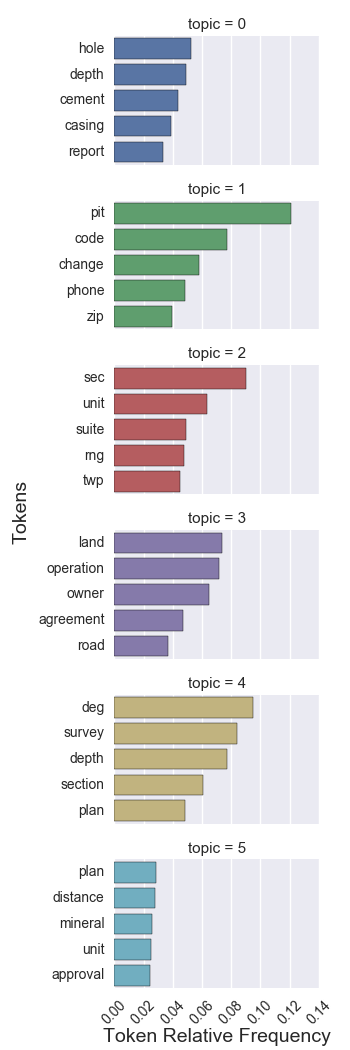
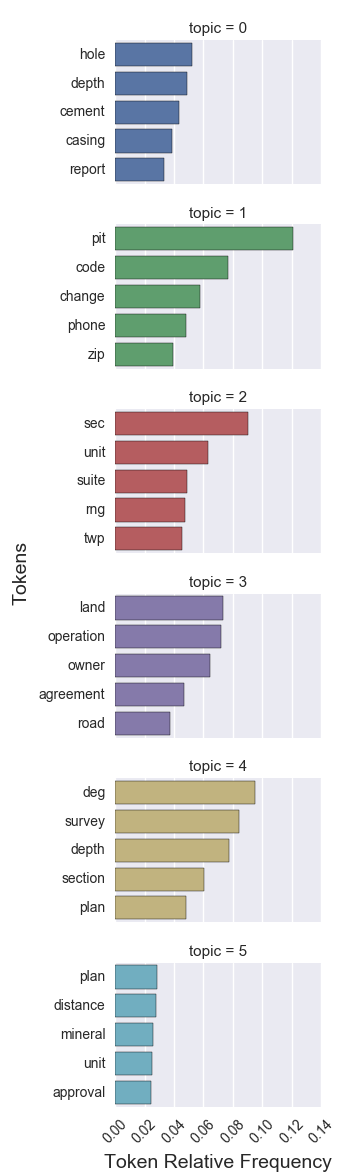
added plotting functions to doc_classification.py

diff --git a/src/doc_classification.py b/src/doc_classification.py
@@ -190,20 +190,42 @@ def topic_token_dist(model, dictionary, num_words=10):
 
 
 def plot_topic_token_dist(model, dictionary):
-    df_50 = topic_token_dist(model, dictionary, num_words=50)
-    p = sns.swarmplot(data=df_50, x='topic', y='token_prob', size=6)
-    p.set(ylabel='', xlabel='')
-    plt.text(-1.3, 0.06, 'Token Relative Frequency', va='center', rotation='vertical', size=14)
-    plt.text(2.5, -0.037, 'Topic', ha='center', size=14)
-
-    df_10 = topic_token_dist(model, dictionary, num_words=5)
-    grid = sns.FacetGrid(data=df_10, row='topic', hue='topic', sharey=False, size=1.75, aspect=2)
+    '''
+    INPUT: trained model, dictionary
+    OUTPUT: None
+    TASK: creates 3 plots - (1) topic vs. toekn relative freq, (2) topic vs. token variance per topic, (3) token relative freq vs. tokens by topic
+    '''
+    df_5 = topic_token_dist(model, dictionary, num_words=5)
+    grid = sns.FacetGrid(data=df_5, row='topic', hue='topic', sharey=False, size=1.75, aspect=2)
     grid.map(sns.barplot, 'token_prob', 'token')
     grid.set(ylabel='', xlabel='')
     plt.text(-0.07, -14, 'Tokens', va='center', rotation='vertical', size=14)
     plt.text(0.07, 6.6, 'Token Relative Frequency', ha='center', size=14)
     plt.xticks(rotation=45)
 
+    df_10 = topic_token_dist(model, dictionary, num_words=10)
+    fig2 = plt.figure()
+    fig2 = sns.boxplot(data=df_10, y='topic', x='token_id', orient='h')
+    fig2.axes.set_title('Distribution of Token ID per Topic',fontsize=16)
+    fig2.set_xlabel('Token ID',fontsize=14)
+    fig2.set_ylabel('Topic',fontsize=14)
+
+    df_50 = topic_token_dist(model, dictionary, num_words=50)
+    fig3 = plt.figure()
+    fig3 = sns.swarmplot(data=df_50, x='topic', y='token_prob', size=6)
+    fig3.set(ylabel='', xlabel='')
+    fig3.text(-1.3, 0.06, 'Token Relative Frequency', va='center', rotation='vertical', size=14)
+    fig3.text(2.5, -0.037, 'Topic', ha='center', size=14)
+
+    df_all = topic_token_dist(model, dictionary, num_words=len(dictionary.values()))
+    x, y = [], []
+    for t in range(model.num_topics):
+        x.append(t)
+        y.append(np.var(df_all[df_all['topic'] == t]['token_prob']))
+    fig4 = plt.figure()
+    fig4 = sns.barplot(x, y)
+    fig4.text(-1.3, 0.00015, 'Token Variance per Topic', va='center', rotation='vertical', size=14)
+    fig4.text(2.5, -0.000025, 'Topic', ha='center', size=14)
 
 
 def docs_topic_mask(model, top_topics_dict):
@@ -362,112 +384,116 @@ def plot_pca(pca):
 
 
 
-    # # ******
-    # # calculate token variance inside topics using all tokens in dictionary
-    # df = topic_token_dist(model=lda, dictionary=dictionary, num_words=len(dictionary.values()))
-    # x, y = [], []
-    # for t in range(lda.num_topics):
-    #     x.append(t)
-    #     y.append(np.var(df[df['topic'] == t]['token_prob']))
-    #
-    # # calculate mean token_id per topic to identify mean of known topic labels, such as permits
-    # token_dist_df = topic_token_dist(model=lda, dictionary=dictionary, num_words=10)
-    # m = []
-    # for t in range(lda.num_topics):
-    #     m.append(np.mean(token_dist_df[token_dist_df['topic'] == t]['token_id']))
-    #
-    # df_top_var = pd.DataFrame({'topic': x, 'token_prob_var': y, 'top10_token_id_mean': m})
-    #
-    # # use token_prob_var < 0.00015 to find most consistent topics in terms of document content. Use topic visual inspection to connect  top10_token_id_mean with topic label.
-    # df_top_var['topic_label'] = ''
-    # df_top_var.loc[0, 'topic_label'] = 'completions'
-    # df_top_var.loc[5, 'topic_label'] = 'permits'
-    #
-    # p = sns.barplot(x, y)
-    # plt.text(-1.3, 0.00015, 'Token Probability Variance', va='center', rotation='vertical', size=14)
-    # plt.text(2.5, -0.000025, 'Topic', ha='center', size=14)
-    #
-    #
-    # # topic_id distribution per topic
-    # b = sns.boxplot(data=token_dist_df, y='topic', x='token_id', orient='h')
-    # b.axes.set_title('Distribution of Token ID per Topic',fontsize=16)
-    # b.set_xlabel('Token ID',fontsize=14)
-    # b.set_ylabel('Topic',fontsize=14)
-    #
-    # # if topic variance is under 0.00005, set document paths as classified and exclude from further processing
-    # classified_topic = []
-    # for t in range(lda.num_topics):
-    #     if y[t] < 0.00005:
-    #         classified_topic.append(t)
-    #
-    # topic_masks = docs_topic_mask(model=lda, top_topics_dict=top_topics_dict)
-    #
-    # classified_txt_paths = defaultdict(list)
-    # for t in classified_topic:
-    #     classified_txt_paths[t].append(np.array(txt_paths)[topic_masks[t]])
-    #
-    # to_ignore_txt_paths = []
-    # for t in classified_topic:
-    #     to_ignore_txt_paths = list(chain.from_iterable([x[0] for x in classified_txt_paths.values()]))
-    #
-    # top_num = []
-    # path_lst = []
-    # for t, v in classified_txt_paths.items():
-    #     top_num.append(np.repeat(t, len(v[0])))
-    #     path_lst.append(v[0])
-    #
-    # topic_lst = [item for sublist in top_num for item in sublist]
-    # path_lst = [item for sublist in path_lst for item in sublist]
-    # api_lst = [path.rsplit('/', 1)[-1].rsplit('-', 3)[0] for path in path_lst]
-    #
-    # df_classified = pd.DataFrame({'topic_num': topic_lst, 'txt_path': path_lst, 'api_label': api_lst})
-    #
-    # df_classified_dummies = pd.concat([df_classified, pd.get_dummies(df_classified['topic_num'])], axis=1)
-    #
-    # df_classified_dummies.to_csv('data/wells_classified.csv')
-    #
-    # # API numbers for all files in train set
-    # path_api = []
-    # for path in txt_paths:
-    #     path_api.append((path, path.rsplit('/', 1)[-1].rsplit('-', 3)[0]))
-    #
-    # unique_api = set(np.array(path_api)[:,1])
-    #
-    # # COGCC well location and information data by API number
-    # dbf = dbfread.DBF('/Users/jpc/Documents/data_science_inmersive/document_image_classification/data/WELLS_SHP/Wells.dbf')
-    # frame = pd.DataFrame(iter(dbf))
-    # frame.to_csv('data/cogcc_well_info.csv')
-    #
-    # processed_wells = frame[frame['API_Label'].isin(unique_api)]
-    #
-    # wells_utms_latlon = processed_wells.loc[:, ['API_Label', 'Utm_X', 'Utm_Y', 'Max_MD', 'Max_TVD', 'Operator', 'Spud_Date', 'Well_Title']]
-    #
-    #
-    # lat_long = []
-    # for i in range(wells_utms.shape[0]):
-    #     lat_long.append(utm.to_latlon(wells_utms.iloc[i,1], wells_utms_latlon.iloc[i,2], 13, 'S'))
-    # wells_utms_latlon['latitude'], wells_utms_latlon['longitude'] = zip(*lat_long)
-    #
-    # lower_cols = []
-    # for col in wells_utms_latlon.columns:
-    #     lower_cols.append(col.lower())
-    # wells_utms_latlon.columns = lower_cols
-    #
-    # wells_classified = wells_utms_latlon.merge(df_classified_dummies, on='api_label')
-    #
-    # def label_topic(row):
-    #     if row['topic_num'] == 5 :
-    #         return 'permit'
-    #     return 'no classified documents'
-    #
-    # wells_classified['topic_name'] = wells_classified.apply(lambda row: label_topic(row), axis=1)
-    #
-    # wells_aggregated = wells_classified.groupby(['api_label', 'utm_x', 'utm_y', 'max_md', 'max_tvd', 'operator', 'well_title', 'latitude', 'longitude', 'topic_num', 'topic_name']).sum().reset_index()
-    #
-    # wells_aggregated = pd.merge(wells_aggregated, wells_utms_latlon.loc[:, ['api_label', 'spud_date']], how='inner', on='api_label')
-    #
-    # wells_aggregated.to_csv('data/wells_aggregated.csv')
-    # # ******
+    # ******
+    # calculate mean token_id per topic to identify mean of known topic labels, such as permits
+    token_dist_df = topic_token_dist(model=lda, dictionary=dictionary, num_words=10)
+    m = []
+    for t in range(lda.num_topics):
+        m.append(np.mean(token_dist_df[token_dist_df['topic'] == t]['token_id']))
+
+    df_top_var = pd.DataFrame({'topic': x, 'token_prob_var': y, 'top10_token_id_mean': m})
+
+    # use token_prob_var < 0.00015 to find most consistent topics in terms of document content. Use topic visual inspection to connect  top10_token_id_mean with topic label.
+    df_top_var['topic_label'] = ''
+    df_top_var.loc[0, 'topic_label'] = 'completions'
+    df_top_var.loc[5, 'topic_label'] = 'permits'
+
+
+
+
+    # topic_id distribution per topic
+    b = sns.boxplot(data=token_dist_df, y='topic', x='token_id', orient='h')
+    b.axes.set_title('Distribution of Token ID per Topic',fontsize=16)
+    b.set_xlabel('Token ID',fontsize=14)
+    b.set_ylabel('Topic',fontsize=14)
+
+    # if topic variance is under 0.00005, set document paths as classified and exclude from further processing
+    classified_topic = []
+    for t in range(lda.num_topics):
+        if y[t] < 0.00005:
+            classified_topic.append(t)
+
+    topic_masks = docs_topic_mask(model=lda, top_topics_dict=top_topics_dict)
+
+    classified_txt_paths = defaultdict(list)
+    for t in classified_topic:
+        classified_txt_paths[t].append(np.array(txt_paths)[topic_masks[t]])
+
+    to_ignore_txt_paths = []
+    for t in classified_topic:
+        to_ignore_txt_paths = list(chain.from_iterable([x[0] for x in classified_txt_paths.values()]))
+
+    top_num = []
+    path_lst = []
+    for t, v in classified_txt_paths.items():
+        top_num.append(np.repeat(t, len(v[0])))
+        path_lst.append(v[0])
+
+    topic_lst = [item for sublist in top_num for item in sublist]
+    path_lst = [item for sublist in path_lst for item in sublist]
+    api_lst = [path.rsplit('/', 1)[-1].rsplit('-', 3)[0] for path in path_lst]
+
+    df_classified = pd.DataFrame({'topic_num': topic_lst, 'txt_path': path_lst, 'api_label': api_lst})
+
+    df_classified_dummies = pd.concat([df_classified, pd.get_dummies(df_classified['topic_num'])], axis=1)
+
+    df_classified_dummies.to_csv('data/wells_classified.csv')
+
+    # API numbers for all files in train set
+def load_cogcc_well_info(cogcc_path):
+    '''
+    INPUT: path to cogcc .dbf file containing well info data
+    OUPUT: data frame of cogcc well info data
+    TASK: uses dbfread package to read .dbf and obtain a data frame
+    '''
+    dbf = dbfread.DBF(cogcc_path)
+    frame = pd.DataFrame(iter(dbf))
+    frame.to_csv('data/cogcc_well_info.csv')
+
+    return frame
+
+
+def cogcc_well_info(txt_paths):
+    path_api = []
+    for path in txt_paths:
+        path_api.append((path, path.rsplit('/', 1)[-1].rsplit('-', 3)[0]))
+
+    unique_api = set(np.array(path_api)[:,1])
+
+    # COGCC well location and information data by API number
+    dbf = dbfread.DBF('/Users/jpc/Documents/data_science_inmersive/document_image_classification/data/WELLS_SHP/Wells.dbf')
+    frame = pd.DataFrame(iter(dbf))
+    frame.to_csv('data/cogcc_well_info.csv')
+
+    processed_wells = frame[frame['API_Label'].isin(unique_api)]
+
+    wells_utms_latlon = processed_wells.loc[:, ['API_Label', 'Utm_X', 'Utm_Y', 'Max_MD', 'Max_TVD', 'Operator', 'Spud_Date', 'Well_Title']]
+
+    lat_long = []
+    for i in range(wells_utms.shape[0]):
+        lat_long.append(utm.to_latlon(wells_utms.iloc[i,1], wells_utms_latlon.iloc[i,2], 13, 'S'))
+    wells_utms_latlon['latitude'], wells_utms_latlon['longitude'] = zip(*lat_long)
+
+    lower_cols = []
+    for col in wells_utms_latlon.columns:
+        lower_cols.append(col.lower())
+    wells_utms_latlon.columns = lower_cols
+
+    wells_classified = wells_utms_latlon.merge(df_classified_dummies, on='api_label')
+
+    def label_topic(row):
+        if row['topic_num'] == 5 :
+            return 'permit'
+        return 'no classified documents'
+
+    wells_classified['topic_name'] = wells_classified.apply(lambda row: label_topic(row), axis=1)
+
+    wells_aggregated = wells_classified.groupby(['api_label', 'utm_x', 'utm_y', 'max_md', 'max_tvd', 'operator', 'well_title', 'latitude', 'longitude', 'topic_num', 'topic_name']).sum().reset_index()
+
+    wells_aggregated = pd.merge(wells_aggregated, wells_utms_latlon.loc[:, ['api_label', 'spud_date']], how='inner', on='api_label')
+
+    wells_aggregated.to_csv('data/wells_aggregated.csv')
+    # ******
 
 
 
@@ -727,21 +753,6 @@ def plot_pca(pca):
     # n_topics = lda.num_topics
 
 
-
-
-
-
-
-
-
-
-
-
-
-
-
-
-
 ##################################################
     # # Kmeans approach
     # logging.basicConfig(level=logging.INFO, format='%(asctime)s %(levelname)s %(message)s')
@@ -799,8 +810,6 @@ def plot_pca(pca):
     #
     # processed_corpus = [[token for token in text if frequency[token] > 1] for text in texts]
     #
-
-
 
 
     # generate tfidf matrix and vectorizer
